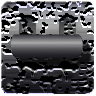
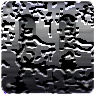
Jet engine throttle control, take 1

diff --git a/UILib/ElectricalElementControl.cpp b/UILib/ElectricalElementControl.cpp
@@ -270,10 +270,194 @@ void EngineControllerTelegraphElectricalElementControl::MoveToPoint(wxPoint cons
 }
 
 ///////////////////////////////////////////////////////////////////////////////////////////////////////
-// EngineControllerJetThrottle
+// EngineControllerJetEngineThrottleElectricalElementControl
 ///////////////////////////////////////////////////////////////////////////////////////////////////////
 
-// TODO
+void EngineControllerJetEngineThrottleElectricalElementControl::OnKeyboardShortcutDown(bool isShift)
+{
+    if (mIsEnabled)
+    {
+        // TODOHERE: another version of MouseMove state machine, with direct up/down transitions though (i.e. without thresholds)
+
+        ////if (!isShift)
+        ////{
+        ////    // Plus
+        ////    if (mCurrentValue < MaxTelegraphValue)
+        ////        ++mCurrentValue;
+        ////}
+        ////else
+        ////{
+        ////    // Minus
+        ////    if (mCurrentValue > 0)
+        ////        --mCurrentValue;
+        ////}
+
+        ////mOnControllerUpdated(mCurrentValue);
+    }
+}
+
+void EngineControllerJetEngineThrottleElectricalElementControl::OnPaint(wxPaintEvent & /*event*/)
+{
+    wxPaintDC dc(mImagePanel);
+    Render(dc);
+}
+
+void EngineControllerJetEngineThrottleElectricalElementControl::Render(wxDC & dc)
+{
+    //
+    // Draw background image
+    //
+
+    dc.DrawBitmap(
+        mIsEnabled ? mEnabledBackgroundImage : mDisabledBackgroundImage,
+        0,
+        0,
+        true);
+
+    //
+    // Draw handle
+    //
+
+    dc.DrawBitmap(
+        mIsEnabled ? mEnabledHandleImage: mDisabledHandleImage,
+        mCenterPoint.x - mEnabledHandleImage.GetWidth() / 2,
+        mCenterPoint.y - static_cast<int>(mCurrentValue * mYExtent) - mEnabledHandleImage.GetHeight() / 2,
+        true);
+}
+
+void EngineControllerJetEngineThrottleElectricalElementControl::OnLeftDown(wxMouseEvent & event)
+{
+    if (mIsEnabled)
+    {
+        // Capture mouse
+        if (!mIsMouseCaptured)
+        {
+            mImagePanel->CaptureMouse();
+            mIsMouseCaptured = true;
+        }
+
+        // Start engagement
+        mCurrentEngagementY.emplace(event.GetY());
+    }
+}
+
+void EngineControllerJetEngineThrottleElectricalElementControl::OnLeftUp(wxMouseEvent & /*event*/)
+{
+    // Release mouse capture
+    assert(mIsMouseCaptured || !mIsEnabled);
+    if (mIsMouseCaptured)
+    {
+        mImagePanel->ReleaseMouse();
+        mIsMouseCaptured = false;
+    }
+
+    // Reset engagement
+    mCurrentEngagementY.reset();
+
+    // Unblock up and down (in case we've just landed at idle)
+    mIdleBlockHandleUp = false;
+    mIdleBlockHandleDown = false;
+}
+
+void EngineControllerJetEngineThrottleElectricalElementControl::OnMouseMove(wxMouseEvent & event)
+{    
+    if (mCurrentEngagementY.has_value())
+    {
+        // Calculate Y stride (positive up)
+        int const yStride = -(event.GetY() - *mCurrentEngagementY);
+
+        // Process stride depending on current state
+        if (mCurrentValue == 0.0f)
+        {
+            // At zero
+
+            // Go to Idle if more than magic stride
+            if (yStride > 15)
+            {
+                // Go to Idle
+                mCurrentValue = GameParameters::EngineControllerJetThrottleIdleFraction;
+                mOnControllerUpdated(mCurrentValue);
+
+                // Transition state
+                mIdleBlockHandleUp = true;
+                mCurrentEngagementY = event.GetY();
+
+                Refresh();
+            }
+        }
+        else if (mCurrentValue == GameParameters::EngineControllerJetThrottleIdleFraction)
+        {
+            // At Idle
+
+            // Go to Free if can, and more than magic stride
+            if (!mIdleBlockHandleUp && yStride > 15)
+            {
+                // Go to Free
+                mCurrentValue = std::min(mCurrentValue + HandleStrideToControllerValueOffset(yStride - 15), 1.0f);
+                mOnControllerUpdated(mCurrentValue);
+
+                // Transition state
+                mCurrentEngagementY = event.GetY();
+
+                Refresh();
+            }
+            // Go to Zero if can, and more than magic stide
+            else if (!mIdleBlockHandleDown && yStride < -15)
+            {
+                // Go to Zero
+                mCurrentValue = 0.0f;
+                mOnControllerUpdated(mCurrentValue);
+
+                // Transition state
+                mCurrentEngagementY = event.GetY();
+
+                Refresh();
+            }
+        }
+        else
+        {
+            // Free
+            assert(mCurrentValue > GameParameters::EngineControllerJetThrottleIdleFraction);
+
+            if (yStride > 0)
+            {
+                // Move staying in Free
+                mCurrentValue = std::min(mCurrentValue + HandleStrideToControllerValueOffset(yStride), 1.0f);
+                mOnControllerUpdated(mCurrentValue);
+
+                // Transition state
+                mCurrentEngagementY = event.GetY(); // TODO: sure?
+
+                Refresh();
+            }
+            else if (yStride < 0)
+            {
+                // TODOHERE: allow to go down and then eventually to Idle, if enough remaining stride
+            }
+
+            // TODOOLD
+            // Go to Idle if can, and more than magic stide
+            else if (!mIdleBlockHandleDown && yStride < -15)
+            {
+                // Go to Idle
+                mCurrentValue = GameParameters::EngineControllerJetThrottleIdleFraction;
+                mOnControllerUpdated(mCurrentValue);
+
+                // Transition state
+                mIdleBlockHandleDown = true;
+                mCurrentEngagementY = event.GetY();
+
+                Refresh();
+            }
+        }
+    }
+}
+
+float EngineControllerJetEngineThrottleElectricalElementControl::HandleStrideToControllerValueOffset(float handleStride) const
+{
+    // Magic resistance
+    return handleStride / 50.0f;
+}
 
 ///////////////////////////////////////////////////////////////////////////////////////////////////////
 // EngineControllerJetThrust

diff --git a/UILib/ElectricalElementControl.h b/UILib/ElectricalElementControl.h
@@ -802,3 +802,123 @@ private:
     bool mIsLeftMouseDown;
     bool mIsMouseCaptured;
 };
+
+class EngineControllerJetEngineThrottleElectricalElementControl
+    : public EngineControllerElectricalElementControl
+{
+public:
+
+    EngineControllerJetEngineThrottleElectricalElementControl(
+        wxWindow * parent,
+        wxBitmap const & enabledBackgroundImage,
+        wxBitmap const & disabledBackgroundImage,
+        wxBitmap const & enabledHandleImage,
+        wxBitmap const & disabledHandleImage,
+        wxPoint const & centerPoint,
+        int topY,
+        std::string const & label,
+        wxCursor const & cursor,
+        std::function<void(float)> onControllerUpdated,
+        float currentValue)
+        : EngineControllerElectricalElementControl(
+            parent,
+            enabledBackgroundImage.GetSize(),
+            label)
+        , mEnabledBackgroundImage(enabledBackgroundImage)
+        , mDisabledBackgroundImage(disabledBackgroundImage)
+        , mEnabledHandleImage(enabledHandleImage)
+        , mDisabledHandleImage(disabledHandleImage)
+        , mCenterPoint(centerPoint)
+        , mTopY(topY)
+        , mYExtent(static_cast<float>(centerPoint.y - topY + 1))
+        , mOnControllerUpdated(std::move(onControllerUpdated))
+        //
+        , mCurrentValue(currentValue)
+        , mCurrentEngagementY()
+        , mIdleBlockHandleUp(false) // Arbitrary, will be set at state transitions
+        , mIdleBlockHandleDown(false) // Arbitrary, will be set at state transitions
+        , mIsMouseCaptured(false)
+        , mIsEnabled(true)
+    {
+        assert(mEnabledHandleImage.GetSize() == mDisabledHandleImage.GetSize());
+
+        mImagePanel->SetCursor(cursor);
+
+#ifdef __WXMSW__
+        mImagePanel->SetDoubleBuffered(true);
+#endif
+
+        mImagePanel->Bind(wxEVT_PAINT, (wxObjectEventFunction)&EngineControllerJetEngineThrottleElectricalElementControl::OnPaint, this);
+
+        mImagePanel->Bind(wxEVT_LEFT_DOWN, (wxObjectEventFunction)&EngineControllerJetEngineThrottleElectricalElementControl::OnLeftDown, this);
+        mImagePanel->Bind(wxEVT_LEFT_UP, (wxObjectEventFunction)&EngineControllerJetEngineThrottleElectricalElementControl::OnLeftUp, this);
+        mImagePanel->Bind(wxEVT_MOTION, (wxObjectEventFunction)&EngineControllerJetEngineThrottleElectricalElementControl::OnMouseMove, this);
+    }
+
+    void SetValue(float controllerValue) override
+    {
+        mCurrentValue = controllerValue;
+
+        Refresh();
+    }
+
+    virtual bool IsEnabled() const override
+    {
+        return mIsEnabled;
+    }
+
+    virtual void SetEnabled(bool isEnabled) override
+    {
+        mIsEnabled = isEnabled;
+
+        Refresh();
+    }
+
+    virtual void SetKeyboardShortcutLabel(std::string const & label) override
+    {
+        mImagePanel->SetToolTip(label);
+    }
+
+    void OnKeyboardShortcutDown(bool isShift) override;
+
+    void OnKeyboardShortcutUp() override
+    {
+        // Ignore
+    }
+
+private:
+
+    void OnPaint(wxPaintEvent & event);
+
+    void Render(wxDC & dc);
+
+    void OnLeftDown(wxMouseEvent & event);
+
+    void OnLeftUp(wxMouseEvent & event);
+
+    void OnMouseMove(wxMouseEvent & event);
+
+private:
+
+    float HandleStrideToControllerValueOffset(float handleStride) const;
+
+private:
+
+    wxBitmap const mEnabledBackgroundImage;
+    wxBitmap const mDisabledBackgroundImage;
+    wxBitmap const mEnabledHandleImage;
+    wxBitmap const mDisabledHandleImage;
+    wxPoint const mCenterPoint;
+    int const mTopY; // TODO: see if needed
+    float const mYExtent;
+    
+    std::function<void(float)> mOnControllerUpdated;
+
+    // Current state
+    float mCurrentValue; // The engine controller range (-1.0,...,1.0), but in practice only (0.0,...,1.0)
+    std::optional<int> mCurrentEngagementY;
+    bool mIdleBlockHandleUp;
+    bool mIdleBlockHandleDown;
+    bool mIsMouseCaptured;
+    bool mIsEnabled;
+};

diff --git a/FloatingSandbox/SwitchboardPanel.cpp b/FloatingSandbox/SwitchboardPanel.cpp
@@ -746,7 +746,24 @@ void SwitchboardPanel::OnEngineControllerCreated(
         {
             case ElectricalMaterial::EngineControllerElementType::JetThrottle:
             {
-                // TODO
+                ecCtrl = new EngineControllerJetEngineThrottleElectricalElementControl(
+                    mSwitchPanel,
+                    mEngineControllerJetThrottleBackgroundEnabledBitmap,
+                    mEngineControllerJetThrottleBackgroundDisabledBitmap,
+                    mEngineControllerJetThrottleHandleEnabledBitmap,
+                    mEngineControllerJetThrottleHandleDisabledBitmap,
+                    wxPoint(48, 79),
+                    15,
+                    *label,
+                    mInteractiveCursor,
+                    [this, electricalElementId](float controllerValue)
+                    {
+                        mGameController->SetEngineControllerState(
+                            electricalElementId,
+                            controllerValue);
+                    },
+                    0.0f); // Starting value
+
                 break;
             }
 

diff --git a/Game/ElectricalElements.cpp b/Game/ElectricalElements.cpp
@@ -1628,7 +1628,7 @@ void ElectricalElements::UpdateSinks(
                                 {
                                     controllerThrustMagnitude = (controllerState.CurrentValue - ThrottleIdleFraction) / (1.0f - ThrottleIdleFraction);
                                 }
-                                else if (controllerState.CurrentValue < ThrottleIdleFraction)
+                                else if (controllerState.CurrentValue < -ThrottleIdleFraction)
                                 {
                                     controllerThrustMagnitude = (controllerState.CurrentValue + ThrottleIdleFraction) / (1.0f - ThrottleIdleFraction);
                                 }
